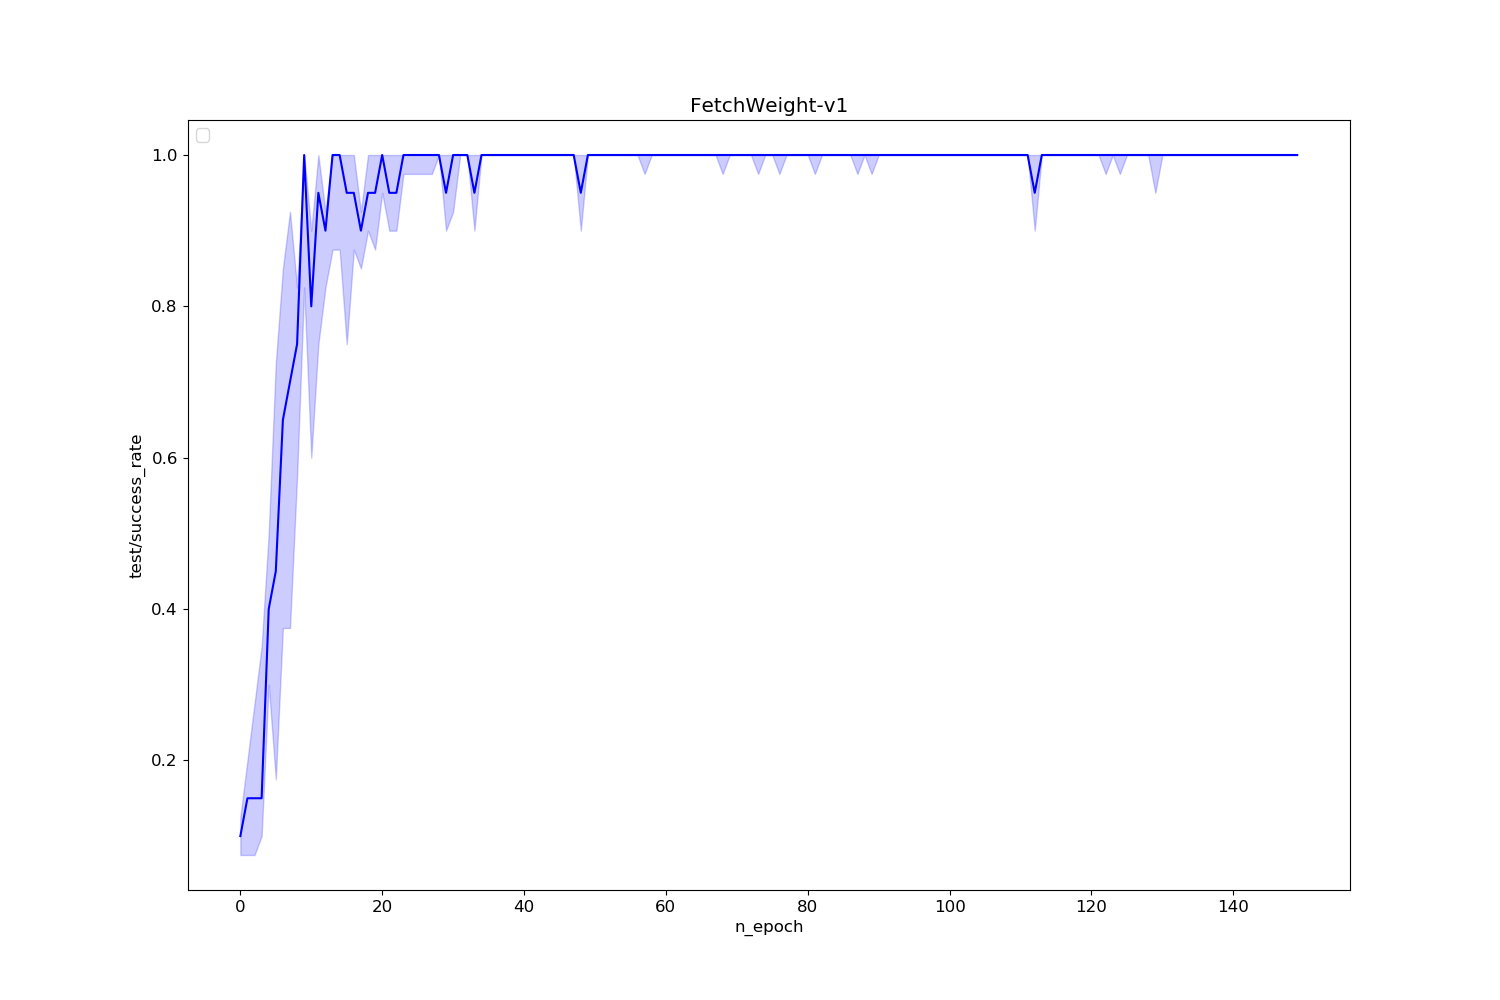
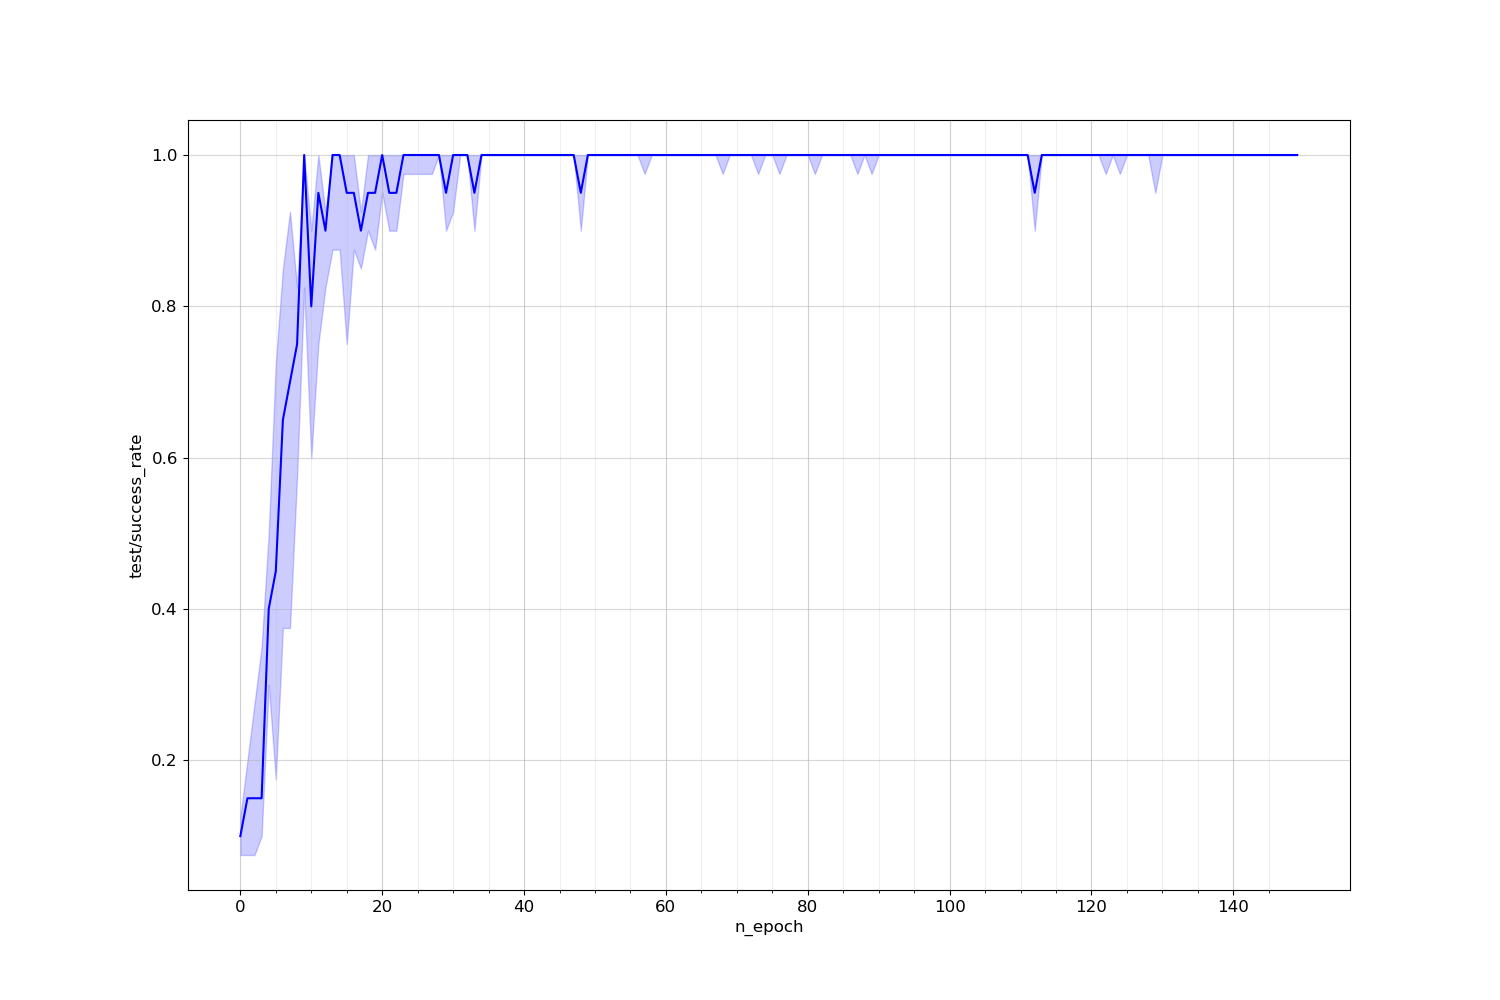
plot all exp with Quartile

Changed region(s): [[0.46, 0.093, 0.552, 0.124]]

diff --git a/result/plot.py b/result/plot.py
@@ -41,14 +41,34 @@ def plot(result, log_folder, precentile, n_epoch, title):
 
     value_down, value_media, value_up = np.percentile(all_exp, precentile, axis=0)
 
-    plt.figure(figsize=(15,10))
+
+
+    fig = plt.figure(figsize=(15,10))
+    ax = fig.add_subplot(1, 1, 1)
+
+    # Major ticks every 20, minor ticks every 5
+    major_ticks = np.arange(0, n_epoch, 20)
+    minor_ticks = np.arange(0, n_epoch, 5)
+
+    ax.set_xticks(major_ticks)
+    ax.set_xticks(minor_ticks, minor=True)
+    # ax.set_yticks(major_ticks)
+    # ax.set_yticks(minor_ticks, minor=True)
+
+    # And a corresponding grid
+    ax.grid(which='both')
+
+    # Or if you want different settings for the grids:
+    ax.grid(which='minor', alpha=0.2)
+    ax.grid(which='major', alpha=0.5)
+
     plt.plot(np.arange(len(value_media)), value_media, color='blue' )
     plt.fill_between(np.arange(len(value_media)),value_up,value_down,color='b',alpha = 0.2)
 
-    plt.xlabel('n_epoch')
-    plt.ylabel(result)
-    plt.title(title)
-    plt.legend(loc=2)
+    # plt.suptitle(title)
+    ax.set_xlabel('n_epoch')
+    ax.set_ylabel(result)
+
     plt.savefig(title+'.png')
     plt.show()
 
